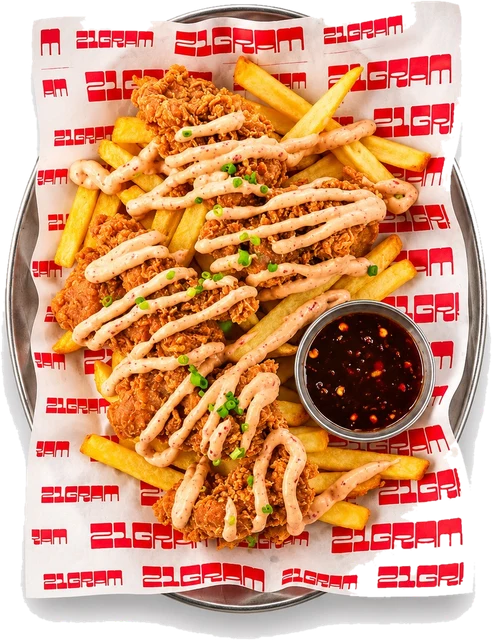
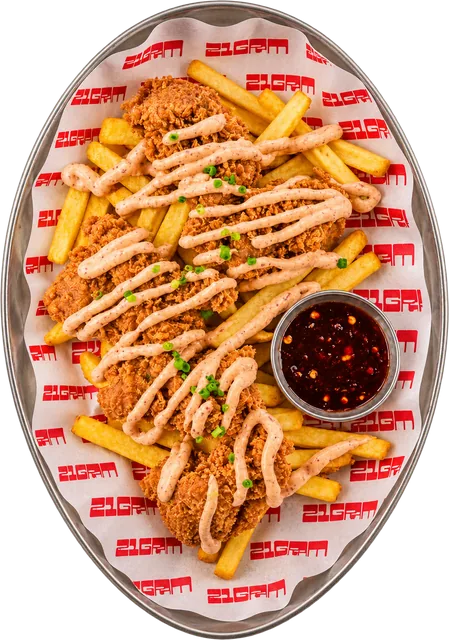
Görseller: Tiramisu, Holy Chick, Golden Chick, Trüflü Parmesanlı Patates (işletmenin şeffaf PNG'leri); betikte uyuşmayan dosya adları için eşleme; IMG_V 12

diff --git a/src/app.js b/src/app.js
@@ -9,7 +9,7 @@ import { ARMY_SVG, ARMY_KIND } from './data/army-figs.js';
 import { MODELS, createViewer, prefetchModel } from './model3d.js';
 
 /* fotoğraflar yeniden kesildiğinde artır (tarayıcı önbelleğini kırar) */
-const IMG_V = 11;
+const IMG_V = 12;
 /* menü verisi pakete gömülü (ayrı istek ve bekleme yok); src/data/menu.json değişince build yeniden alır */
 import menu from './data/menu.json';
 

diff --git a/scripts/prep-realistic.py b/scripts/prep-realistic.py
@@ -27,13 +27,23 @@ def walk(o):
     elif isinstance(o, list):
         for v in o: yield from walk(v)
 
+# dosya adı menü adıyla uyuşmayanlar: gelen dosya adı → menüdeki ürün adı (kullanıcı onaylı)
+ALIAS = {
+    'Soslu çıtır tavuk ve patates tabağı': 'HOLY CHICK',
+    'Çıtır tavuk ve patates sunumu': 'Golden Chıck',
+    'Soslu peynirli patates kızartması tepsisi': 'Trüflü Parmesanlı Patates Kızartması',
+    'Beyaz tabakta gerçekçi tiramisu dilimi': 'TİRAMİSU',
+    'Mercan tonlu acılı sos kâsesi': 'DYNAMITE SOS',      # soslarda henüz img yok → şimdilik atlanır
+}
+ALIAS = {key(k): key(v) for k, v in ALIAS.items()}
+
 menu = json.load(open(os.path.join(ROOT, 'src/data/menu.json'), encoding='utf-8'))
 byname = {key(p['name']): p for p in walk(menu) if p.get('img')}
 
 os.makedirs(BAK, exist_ok=True)
 for f in sorted(os.listdir(SRC)):
     if not f.lower().endswith('.png'): continue
-    p = byname.get(key(os.path.splitext(f)[0]))
+    k = key(os.path.splitext(f)[0]); p = byname.get(ALIAS.get(k, k))
     if not p: print('EŞLEŞMEDİ:', f); continue
     im = Image.open(os.path.join(SRC, f)).convert('RGBA')
     r, g, b, a = im.split()
